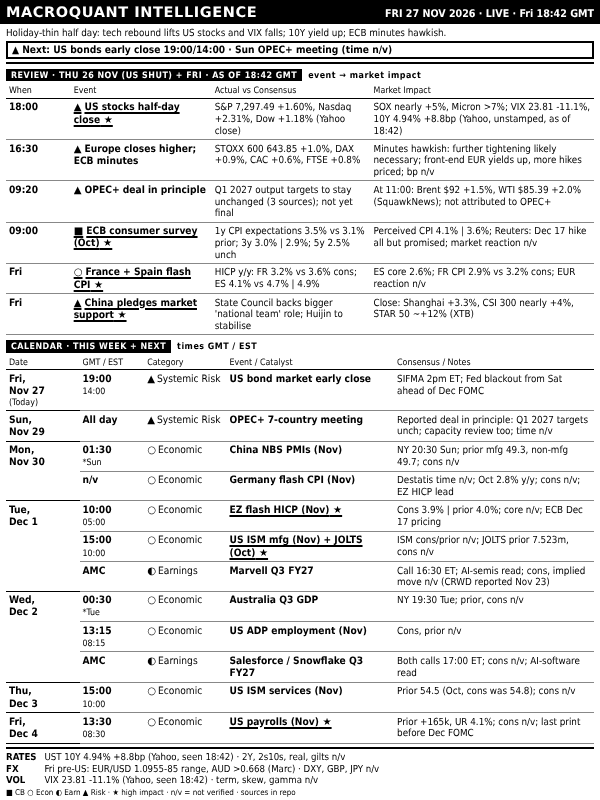
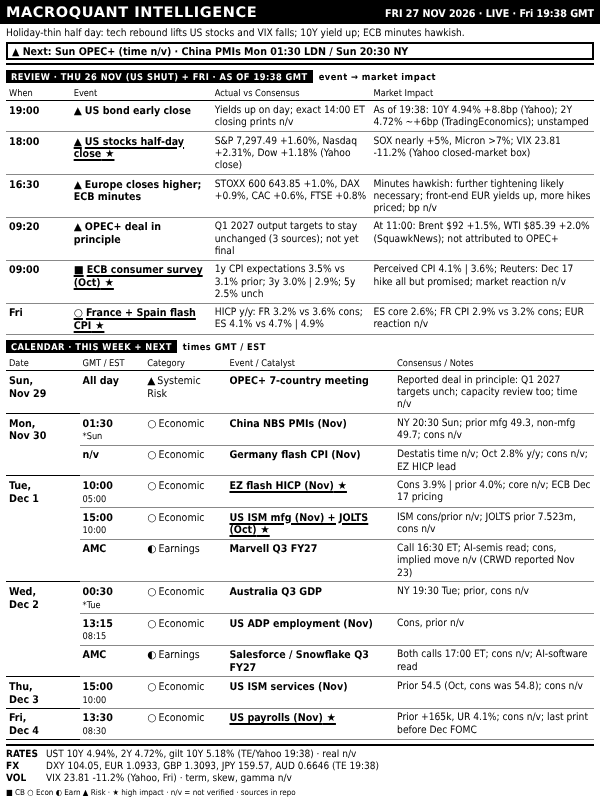
dashboard: FRI 27 NOV 2026 LIVE 19:38
Claude-Session: https://claude.ai/code/session_016SJqa436KtDb8rEXRb7EGM

Changed region(s): [[0.0, 0.0312, 0.99, 1.0], [0.0, 0.7188, 0.06, 0.7812], [0.9, 0.0, 0.93, 0.0312]]

diff --git a/out/dashboard.html b/out/dashboard.html
@@ -38,12 +38,12 @@ table.bd{border-collapse:collapse;width:100%;table-layout:fixed;margin-top:1px}
 </style></head><body>
 <div id="root">
  <div class="hdr"><span class="t">MACROQUANT INTELLIGENCE</span>
-  <span class="r">FRI 27 NOV 2026 · LIVE · Fri 18:42 GMT</span></div>
- <div class="ban"><div class="rg">Holiday-thin half day: tech rebound lifts US stocks and VIX falls; 10Y yield up; ECB minutes hawkish.</div><div class="al">▲ Next: US bonds early close 19:00/14:00 · Sun OPEC+ meeting (time n/v)</div></div>
- <div class="sl"><span>REVIEW · THU 26 NOV (US SHUT) + FRI · AS OF 18:42 GMT</span>event → market impact</div><table class="bd rv"><colgroup><col style="width:11%"><col style="width:24%"><col style="width:27%"><col></colgroup><tr><th>When</th><th>Event</th><th>Actual vs Consensus</th><th>Market Impact</th></tr><tr class="h"><td class="tm"><b>18:00</b></td><td class="ev"><i>▲</i>US stocks half-day close</td><td class="ac">S&amp;P 7,297.49 +1.60%, Nasdaq +2.31%, Dow +1.18% (Yahoo close)</td><td class="nt">SOX nearly +5%, Micron &gt;7%; VIX 23.81 -11.1%, 10Y 4.94% +8.8bp (Yahoo, unstamped, as of 18:42)</td></tr><tr><td class="tm"><b>16:30</b></td><td class="ev"><i>▲</i>Europe closes higher; ECB minutes</td><td class="ac">STOXX 600 643.85 +1.0%, DAX +0.9%, CAC +0.6%, FTSE +0.8%</td><td class="nt">Minutes hawkish: further tightening likely necessary; front-end EUR yields up, more hikes priced; bp n/v</td></tr><tr><td class="tm"><b>09:20</b></td><td class="ev"><i>▲</i>OPEC+ deal in principle</td><td class="ac">Q1 2027 output targets to stay unchanged (3 sources); not yet final</td><td class="nt">At 11:00: Brent $92 +1.5%, WTI $85.39 +2.0% (SquawkNews); not attributed to OPEC+</td></tr><tr class="h"><td class="tm"><b>09:00</b></td><td class="ev"><i>■</i>ECB consumer survey (Oct)</td><td class="ac">1y CPI expectations 3.5% vs 3.1% prior; 3y 3.0% | 2.9%; 5y 2.5% unch</td><td class="nt">Perceived CPI 4.1% | 3.6%; Reuters: Dec 17 hike all but promised; market reaction n/v</td></tr><tr class="h"><td class="tm"><b>Fri</b></td><td class="ev"><i>○</i>France + Spain flash CPI</td><td class="ac">HICP y/y: FR 3.2% vs 3.6% cons; ES 4.1% vs 4.7% | 4.9%</td><td class="nt">ES core 2.6%; FR CPI 2.9% vs 3.2% cons; EUR reaction n/v</td></tr><tr class="h"><td class="tm"><b>Fri</b></td><td class="ev"><i>▲</i>China pledges market support</td><td class="ac">State Council backs bigger 'national team' role; Huijin to stabilise</td><td class="nt">Close: Shanghai +3.3%, CSI 300 nearly +4%, STAR 50 ~+12% (XTB)</td></tr></table>
+  <span class="r">FRI 27 NOV 2026 · LIVE · Fri 19:38 GMT</span></div>
+ <div class="ban"><div class="rg">Holiday-thin half day: tech rebound lifts US stocks and VIX falls; 10Y yield up; ECB minutes hawkish.</div><div class="al">▲ Next: Sun OPEC+ (time n/v) · China PMIs Mon 01:30 LDN / Sun 20:30 NY</div></div>
+ <div class="sl"><span>REVIEW · THU 26 NOV (US SHUT) + FRI · AS OF 19:38 GMT</span>event → market impact</div><table class="bd rv"><colgroup><col style="width:11%"><col style="width:24%"><col style="width:27%"><col></colgroup><tr><th>When</th><th>Event</th><th>Actual vs Consensus</th><th>Market Impact</th></tr><tr><td class="tm"><b>19:00</b></td><td class="ev"><i>▲</i>US bond early close</td><td class="ac">Yields up on day; exact 14:00 ET closing prints n/v</td><td class="nt">As of 19:38: 10Y 4.94% +8.8bp (Yahoo); 2Y 4.72% ~+6bp (TradingEconomics); unstamped</td></tr><tr class="h"><td class="tm"><b>18:00</b></td><td class="ev"><i>▲</i>US stocks half-day close</td><td class="ac">S&amp;P 7,297.49 +1.60%, Nasdaq +2.31%, Dow +1.18% (Yahoo close)</td><td class="nt">SOX nearly +5%, Micron &gt;7%; VIX 23.81 -11.2% (Yahoo closed-market box)</td></tr><tr><td class="tm"><b>16:30</b></td><td class="ev"><i>▲</i>Europe closes higher; ECB minutes</td><td class="ac">STOXX 600 643.85 +1.0%, DAX +0.9%, CAC +0.6%, FTSE +0.8%</td><td class="nt">Minutes hawkish: further tightening likely necessary; front-end EUR yields up, more hikes priced; bp n/v</td></tr><tr><td class="tm"><b>09:20</b></td><td class="ev"><i>▲</i>OPEC+ deal in principle</td><td class="ac">Q1 2027 output targets to stay unchanged (3 sources); not yet final</td><td class="nt">At 11:00: Brent $92 +1.5%, WTI $85.39 +2.0% (SquawkNews); not attributed to OPEC+</td></tr><tr class="h"><td class="tm"><b>09:00</b></td><td class="ev"><i>■</i>ECB consumer survey (Oct)</td><td class="ac">1y CPI expectations 3.5% vs 3.1% prior; 3y 3.0% | 2.9%; 5y 2.5% unch</td><td class="nt">Perceived CPI 4.1% | 3.6%; Reuters: Dec 17 hike all but promised; market reaction n/v</td></tr><tr class="h"><td class="tm"><b>Fri</b></td><td class="ev"><i>○</i>France + Spain flash CPI</td><td class="ac">HICP y/y: FR 3.2% vs 3.6% cons; ES 4.1% vs 4.7% | 4.9%</td><td class="nt">ES core 2.6%; FR CPI 2.9% vs 3.2% cons; EUR reaction n/v</td></tr></table>
  <div class="sl"><span>CALENDAR · THIS WEEK + NEXT</span>times GMT / EST</div>
- <table class="bd"><colgroup><col style="width:12.5%"><col style="width:11%"><col style="width:14%"><col style="width:28.5%"><col></colgroup><tr><th>Date</th><th>GMT / EST</th><th>Category</th><th>Event / Catalyst</th><th>Consensus / Notes</th></tr><tr class="g0"><td class="dt" rowspan="1">Fri,<br>Nov&nbsp;27<span class="tg">(Today)</span></td><td class="tm"><b>19:00</b><span>14:00</span></td><td class="ct"><i>▲</i>Systemic Risk</td><td class="ev">US bond market early close</td><td class="nt">SIFMA 2pm ET; Fed blackout from Sat ahead of Dec FOMC</td></tr><tr class="g0"><td class="dt" rowspan="1">Sun,<br>Nov&nbsp;29</td><td class="tm"><b>All day</b></td><td class="ct"><i>▲</i>Systemic Risk</td><td class="ev">OPEC+ 7-country meeting</td><td class="nt">Reported deal in principle: Q1 2027 targets unch; capacity review too; time n/v</td></tr><tr class="g0"><td class="dt" rowspan="2">Mon,<br>Nov&nbsp;30</td><td class="tm"><b>01:30</b><span>*Sun</span></td><td class="ct"><i>○</i>Economic</td><td class="ev">China NBS PMIs (Nov)</td><td class="nt">NY 20:30 Sun; prior mfg 49.3, non-mfg 49.7; cons n/v</td></tr><tr class=""><td class="tm"><b>n/v</b></td><td class="ct"><i>○</i>Economic</td><td class="ev">Germany flash CPI (Nov)</td><td class="nt">Destatis time n/v; Oct 2.8% y/y; cons n/v; EZ HICP lead</td></tr><tr class="g0 h"><td class="dt" rowspan="3">Tue,<br>Dec&nbsp;1</td><td class="tm"><b>10:00</b><span>05:00</span></td><td class="ct"><i>○</i>Economic</td><td class="ev">EZ flash HICP (Nov)</td><td class="nt">Cons 3.9% | prior 4.0%; core n/v; ECB Dec 17 pricing</td></tr><tr class="h"><td class="tm"><b>15:00</b><span>10:00</span></td><td class="ct"><i>○</i>Economic</td><td class="ev">US ISM mfg (Nov) + JOLTS (Oct)</td><td class="nt">ISM cons/prior n/v; JOLTS prior 7.523m, cons n/v</td></tr><tr class=""><td class="tm"><b>AMC</b></td><td class="ct"><i>◐</i>Earnings</td><td class="ev">Marvell Q3 FY27</td><td class="nt">Call 16:30 ET; AI-semis read; cons, implied move n/v (CRWD reported Nov 23)</td></tr><tr class="g0"><td class="dt" rowspan="3">Wed,<br>Dec&nbsp;2</td><td class="tm"><b>00:30</b><span>*Tue</span></td><td class="ct"><i>○</i>Economic</td><td class="ev">Australia Q3 GDP</td><td class="nt">NY 19:30 Tue; prior, cons n/v</td></tr><tr class=""><td class="tm"><b>13:15</b><span>08:15</span></td><td class="ct"><i>○</i>Economic</td><td class="ev">US ADP employment (Nov)</td><td class="nt">Cons, prior n/v</td></tr><tr class=""><td class="tm"><b>AMC</b></td><td class="ct"><i>◐</i>Earnings</td><td class="ev">Salesforce / Snowflake Q3 FY27</td><td class="nt">Both calls 17:00 ET; cons n/v; AI-software read</td></tr><tr class="g0"><td class="dt" rowspan="1">Thu,<br>Dec&nbsp;3</td><td class="tm"><b>15:00</b><span>10:00</span></td><td class="ct"><i>○</i>Economic</td><td class="ev">US ISM services (Nov)</td><td class="nt">Prior 54.5 (Oct, cons was 54.8); cons n/v</td></tr><tr class="g0 h"><td class="dt" rowspan="1">Fri,<br>Dec&nbsp;4</td><td class="tm"><b>13:30</b><span>08:30</span></td><td class="ct"><i>○</i>Economic</td><td class="ev">US payrolls (Nov)</td><td class="nt">Prior +165k, UR 4.1%; cons n/v; last print before Dec FOMC</td></tr></table>
- <div class="lv"><div><b>RATES</b>UST 10Y 4.94% +8.8bp (Yahoo, seen 18:42) · 2Y, 2s10s, real, gilts n/v</div><div><b>FX</b>Fri pre-US: EUR/USD 1.0955-85 range, AUD &gt;0.668 (Marc) · DXY, GBP, JPY n/v</div><div><b>VOL</b>VIX 23.81 -11.1% (Yahoo, seen 18:42) · term, skew, gamma n/v</div></div>
+ <table class="bd"><colgroup><col style="width:12.5%"><col style="width:11%"><col style="width:14%"><col style="width:28.5%"><col></colgroup><tr><th>Date</th><th>GMT / EST</th><th>Category</th><th>Event / Catalyst</th><th>Consensus / Notes</th></tr><tr class="g0"><td class="dt" rowspan="1">Sun,<br>Nov&nbsp;29</td><td class="tm"><b>All day</b></td><td class="ct"><i>▲</i>Systemic Risk</td><td class="ev">OPEC+ 7-country meeting</td><td class="nt">Reported deal in principle: Q1 2027 targets unch; capacity review too; time n/v</td></tr><tr class="g0"><td class="dt" rowspan="2">Mon,<br>Nov&nbsp;30</td><td class="tm"><b>01:30</b><span>*Sun</span></td><td class="ct"><i>○</i>Economic</td><td class="ev">China NBS PMIs (Nov)</td><td class="nt">NY 20:30 Sun; prior mfg 49.3, non-mfg 49.7; cons n/v</td></tr><tr class=""><td class="tm"><b>n/v</b></td><td class="ct"><i>○</i>Economic</td><td class="ev">Germany flash CPI (Nov)</td><td class="nt">Destatis time n/v; Oct 2.8% y/y; cons n/v; EZ HICP lead</td></tr><tr class="g0 h"><td class="dt" rowspan="3">Tue,<br>Dec&nbsp;1</td><td class="tm"><b>10:00</b><span>05:00</span></td><td class="ct"><i>○</i>Economic</td><td class="ev">EZ flash HICP (Nov)</td><td class="nt">Cons 3.9% | prior 4.0%; core n/v; ECB Dec 17 pricing</td></tr><tr class="h"><td class="tm"><b>15:00</b><span>10:00</span></td><td class="ct"><i>○</i>Economic</td><td class="ev">US ISM mfg (Nov) + JOLTS (Oct)</td><td class="nt">ISM cons/prior n/v; JOLTS prior 7.523m, cons n/v</td></tr><tr class=""><td class="tm"><b>AMC</b></td><td class="ct"><i>◐</i>Earnings</td><td class="ev">Marvell Q3 FY27</td><td class="nt">Call 16:30 ET; AI-semis read; cons, implied move n/v (CRWD reported Nov 23)</td></tr><tr class="g0"><td class="dt" rowspan="3">Wed,<br>Dec&nbsp;2</td><td class="tm"><b>00:30</b><span>*Tue</span></td><td class="ct"><i>○</i>Economic</td><td class="ev">Australia Q3 GDP</td><td class="nt">NY 19:30 Tue; prior, cons n/v</td></tr><tr class=""><td class="tm"><b>13:15</b><span>08:15</span></td><td class="ct"><i>○</i>Economic</td><td class="ev">US ADP employment (Nov)</td><td class="nt">Cons, prior n/v</td></tr><tr class=""><td class="tm"><b>AMC</b></td><td class="ct"><i>◐</i>Earnings</td><td class="ev">Salesforce / Snowflake Q3 FY27</td><td class="nt">Both calls 17:00 ET; cons n/v; AI-software read</td></tr><tr class="g0"><td class="dt" rowspan="1">Thu,<br>Dec&nbsp;3</td><td class="tm"><b>15:00</b><span>10:00</span></td><td class="ct"><i>○</i>Economic</td><td class="ev">US ISM services (Nov)</td><td class="nt">Prior 54.5 (Oct, cons was 54.8); cons n/v</td></tr><tr class="g0 h"><td class="dt" rowspan="1">Fri,<br>Dec&nbsp;4</td><td class="tm"><b>13:30</b><span>08:30</span></td><td class="ct"><i>○</i>Economic</td><td class="ev">US payrolls (Nov)</td><td class="nt">Prior +165k, UR 4.1%; cons n/v; last print before Dec FOMC</td></tr></table>
+ <div class="lv"><div><b>RATES</b>UST 10Y 4.94%, 2Y 4.72%, gilt 10Y 5.18% (TE/Yahoo 19:38) · real n/v</div><div><b>FX</b>DXY 104.05, EUR 1.0933, GBP 1.3093, JPY 159.57, AUD 0.6646 (TE 19:38)</div><div><b>VOL</b>VIX 23.81 -11.2% (Yahoo, Fri) · term, skew, gamma n/v</div></div>
 </div>
 <div class="foot">■ CB ○ Econ ◐ Earn ▲ Risk · ★ high impact · n/v = not verified · sources in repo</div>
 </body></html>
